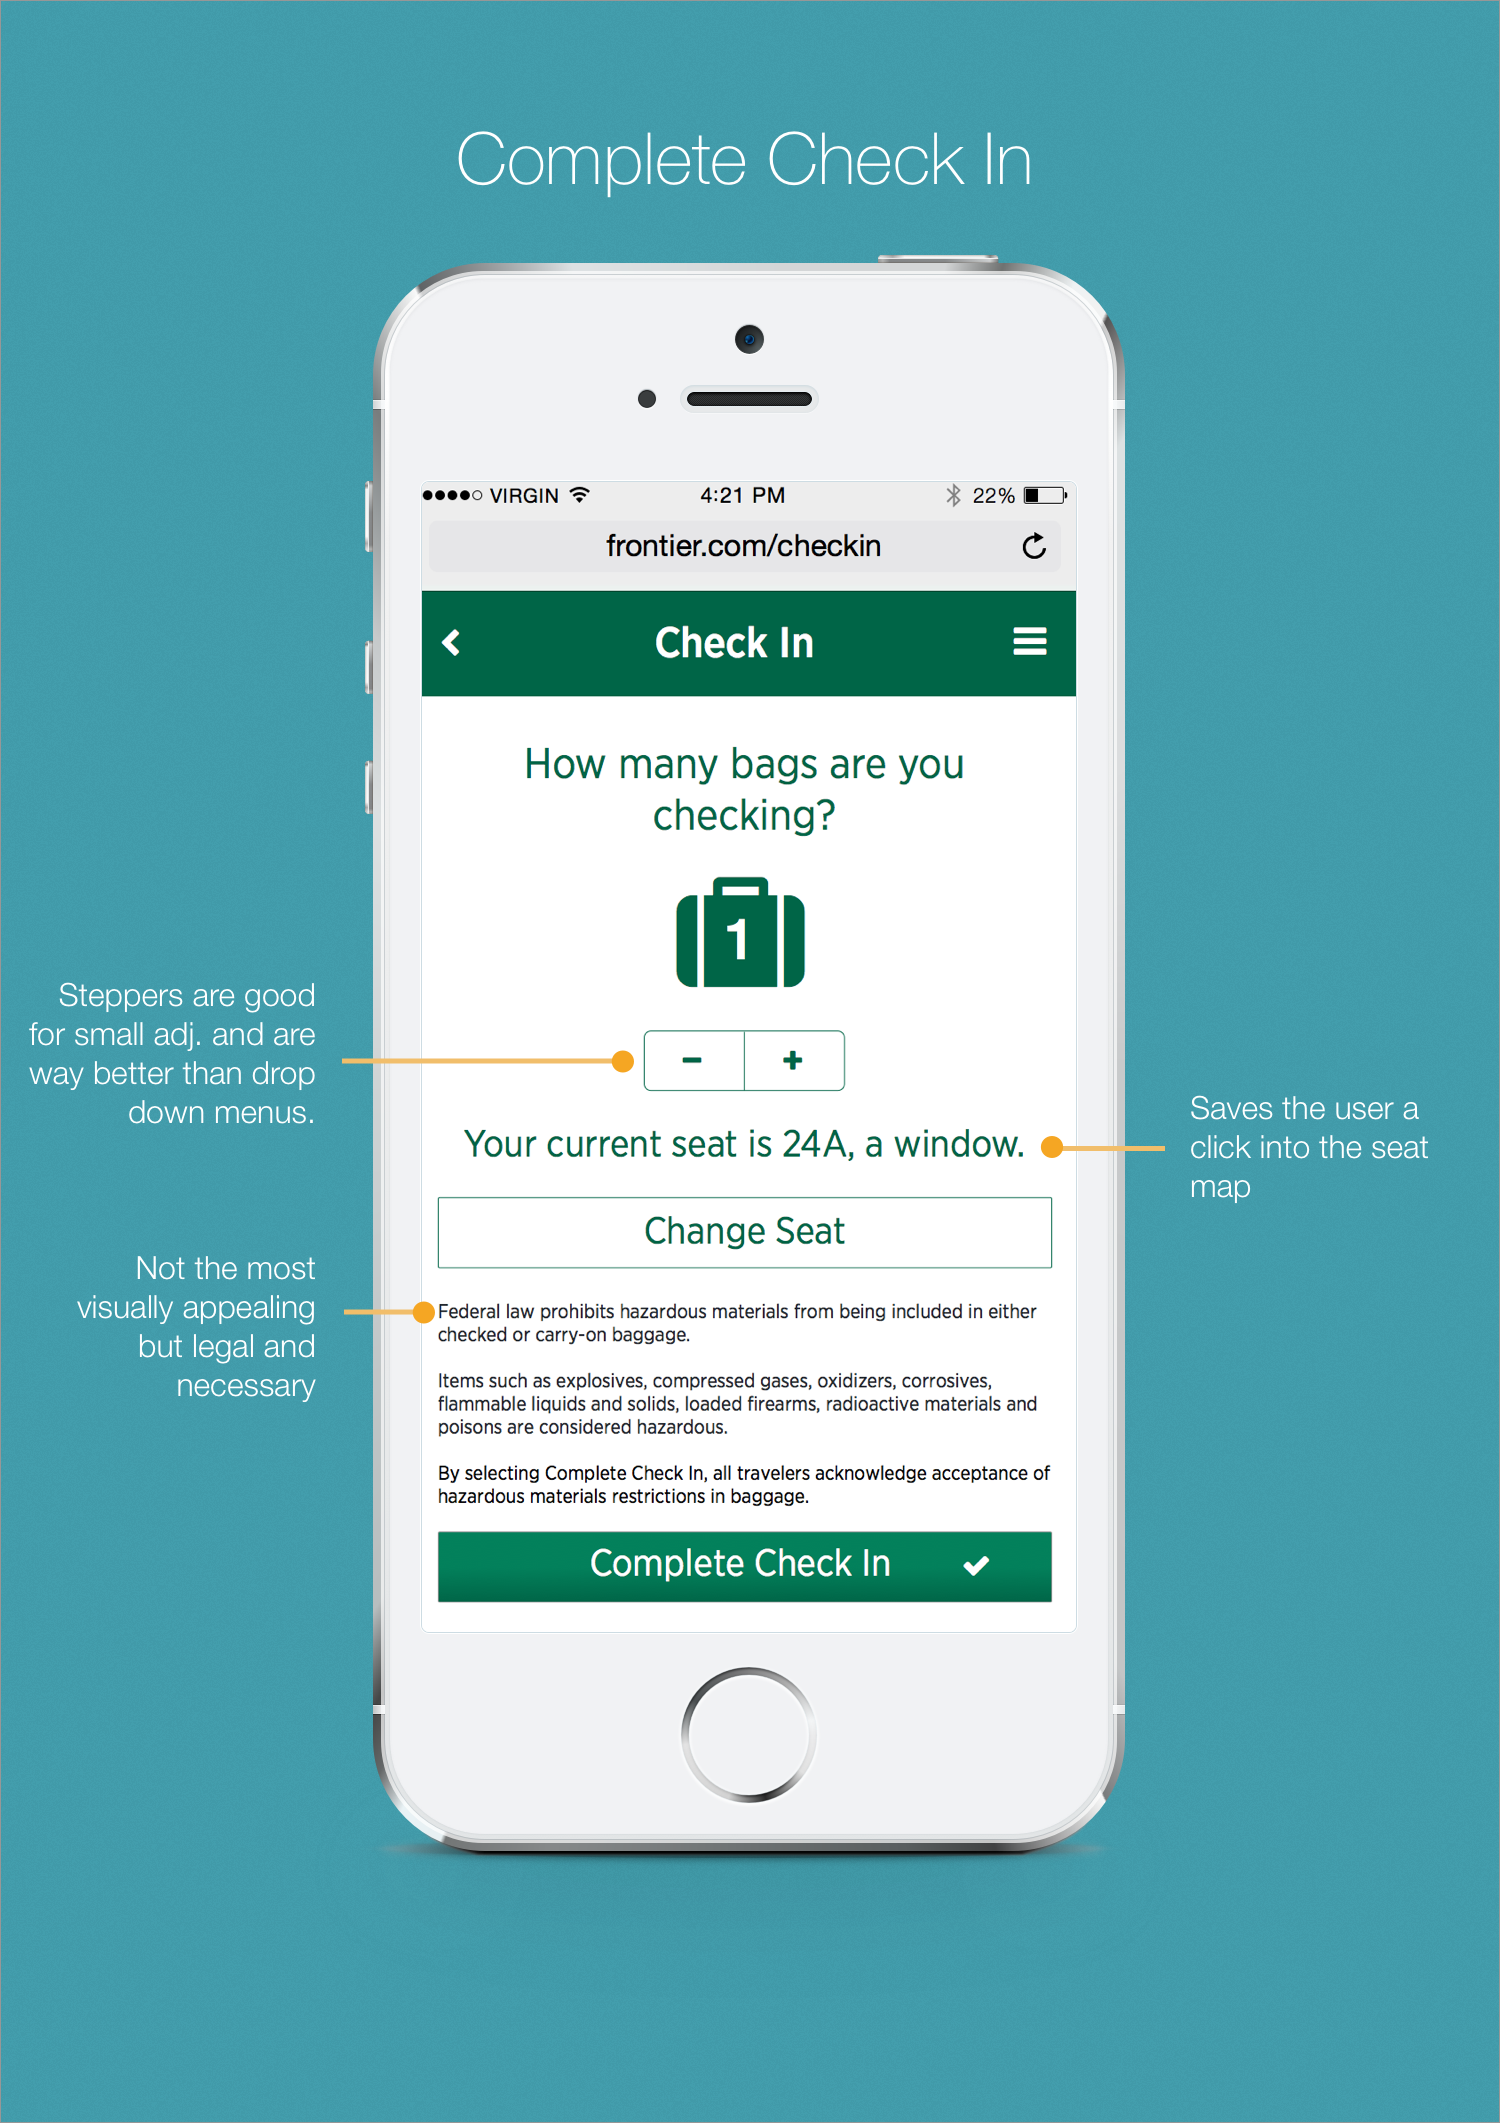
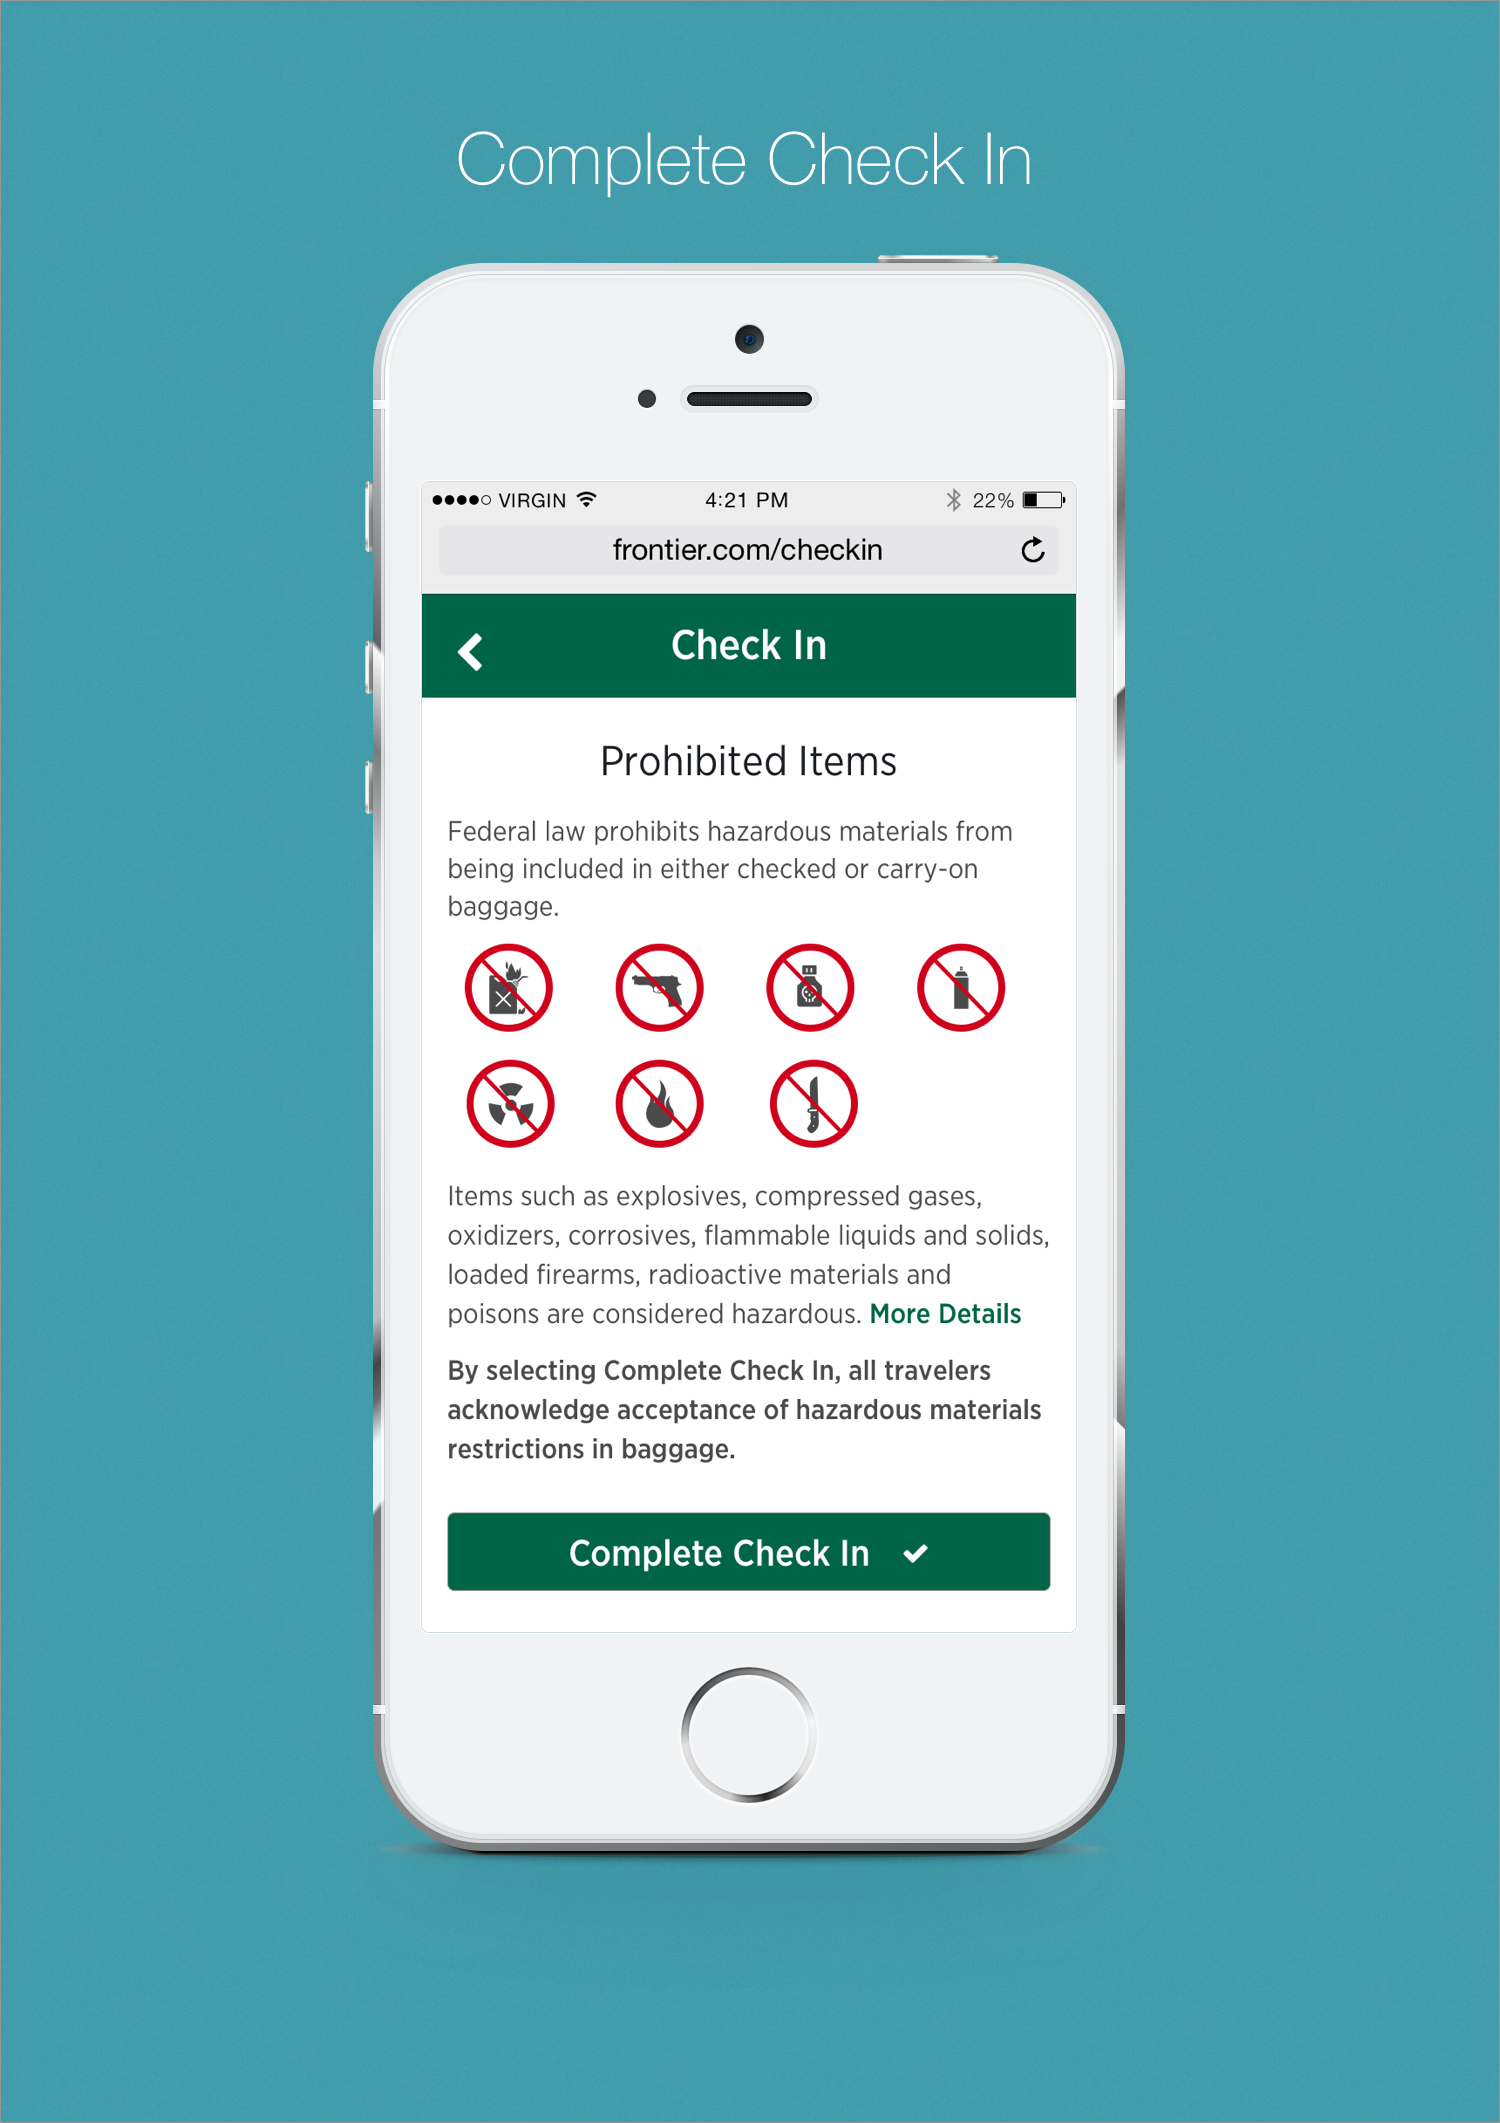
changed images on Frontier

diff --git a/frontier.html b/frontier.html
@@ -197,7 +197,7 @@
                  <hr><br>
                 <p>After clicking "Check In" from their email, it should direct the user to this page. I've included all the flight information presented in a way that's easy to read and digest. The plane departure and arrival icons can signal to the user where to quickly see when they will be departing or arriving. In the first iteration, I had previously placed the boarding time on the bottom. However, when I really thought about what was necessary, I thought it was more appropriate to have flight status there instead. The Flight Status will be in green, yellow, or red to easily communicate how delayed the flight is.</p><br><br>
                 <div class="col-md-12">
-                    <img class="img-responsive" src="images/Frontier/FlightStatus-Explained.png">
+                    <img class="img-responsive" src="images/Frontier/FlightStatus-Explained1-min.png">
                 </div>
 
             </div>
@@ -207,8 +207,8 @@
                 <p><b>Complete Check In- </b> I used a stepper control here, because its great for making small adjustments without having to waste any additional clicks. The vast number of travellers typically check around 0-2 bags, so a stepper would make sense. Interacting with drop down menus often requires more effeort than necessary. First, tap the control, scroll, find and select the option, and then exit. The stepper is simple and the function is clear.<br><br>
 
                 With the seating, I wanted to do something different than what currently exists in airline check in processes. I personally hate having to remember if I got the window seat or if I'm stuck in a middle seat. This saves the traveller a click into the seat map, and helps make the check in process faster and easier.</p><br><br>
-
-                <img class="img-responsive" src="images/Frontier/CompleteCheckIn.png">
+                <img class="img-responsive" src="images/Frontier/BaggageSeats.png"><br>
+                <img class="img-responsive" src="images/Frontier/CompleteCheckin-min.png">
                 <br><br>
                 <p><b>Loading Animation- </b> I started to envision how the flow would be if a user didn't come from a reminder email. The look up process for a reservation typically takes longer, so I wanted to do something interactive and fun while the user waited. It also helps give the user visual feedback that it is doing something in the background. So, I thought this would be the perfect time to pick up Framer! I'm happy to say this is my first animation on Framer and I'm looking forward to doing more.</p>
                 <br>
